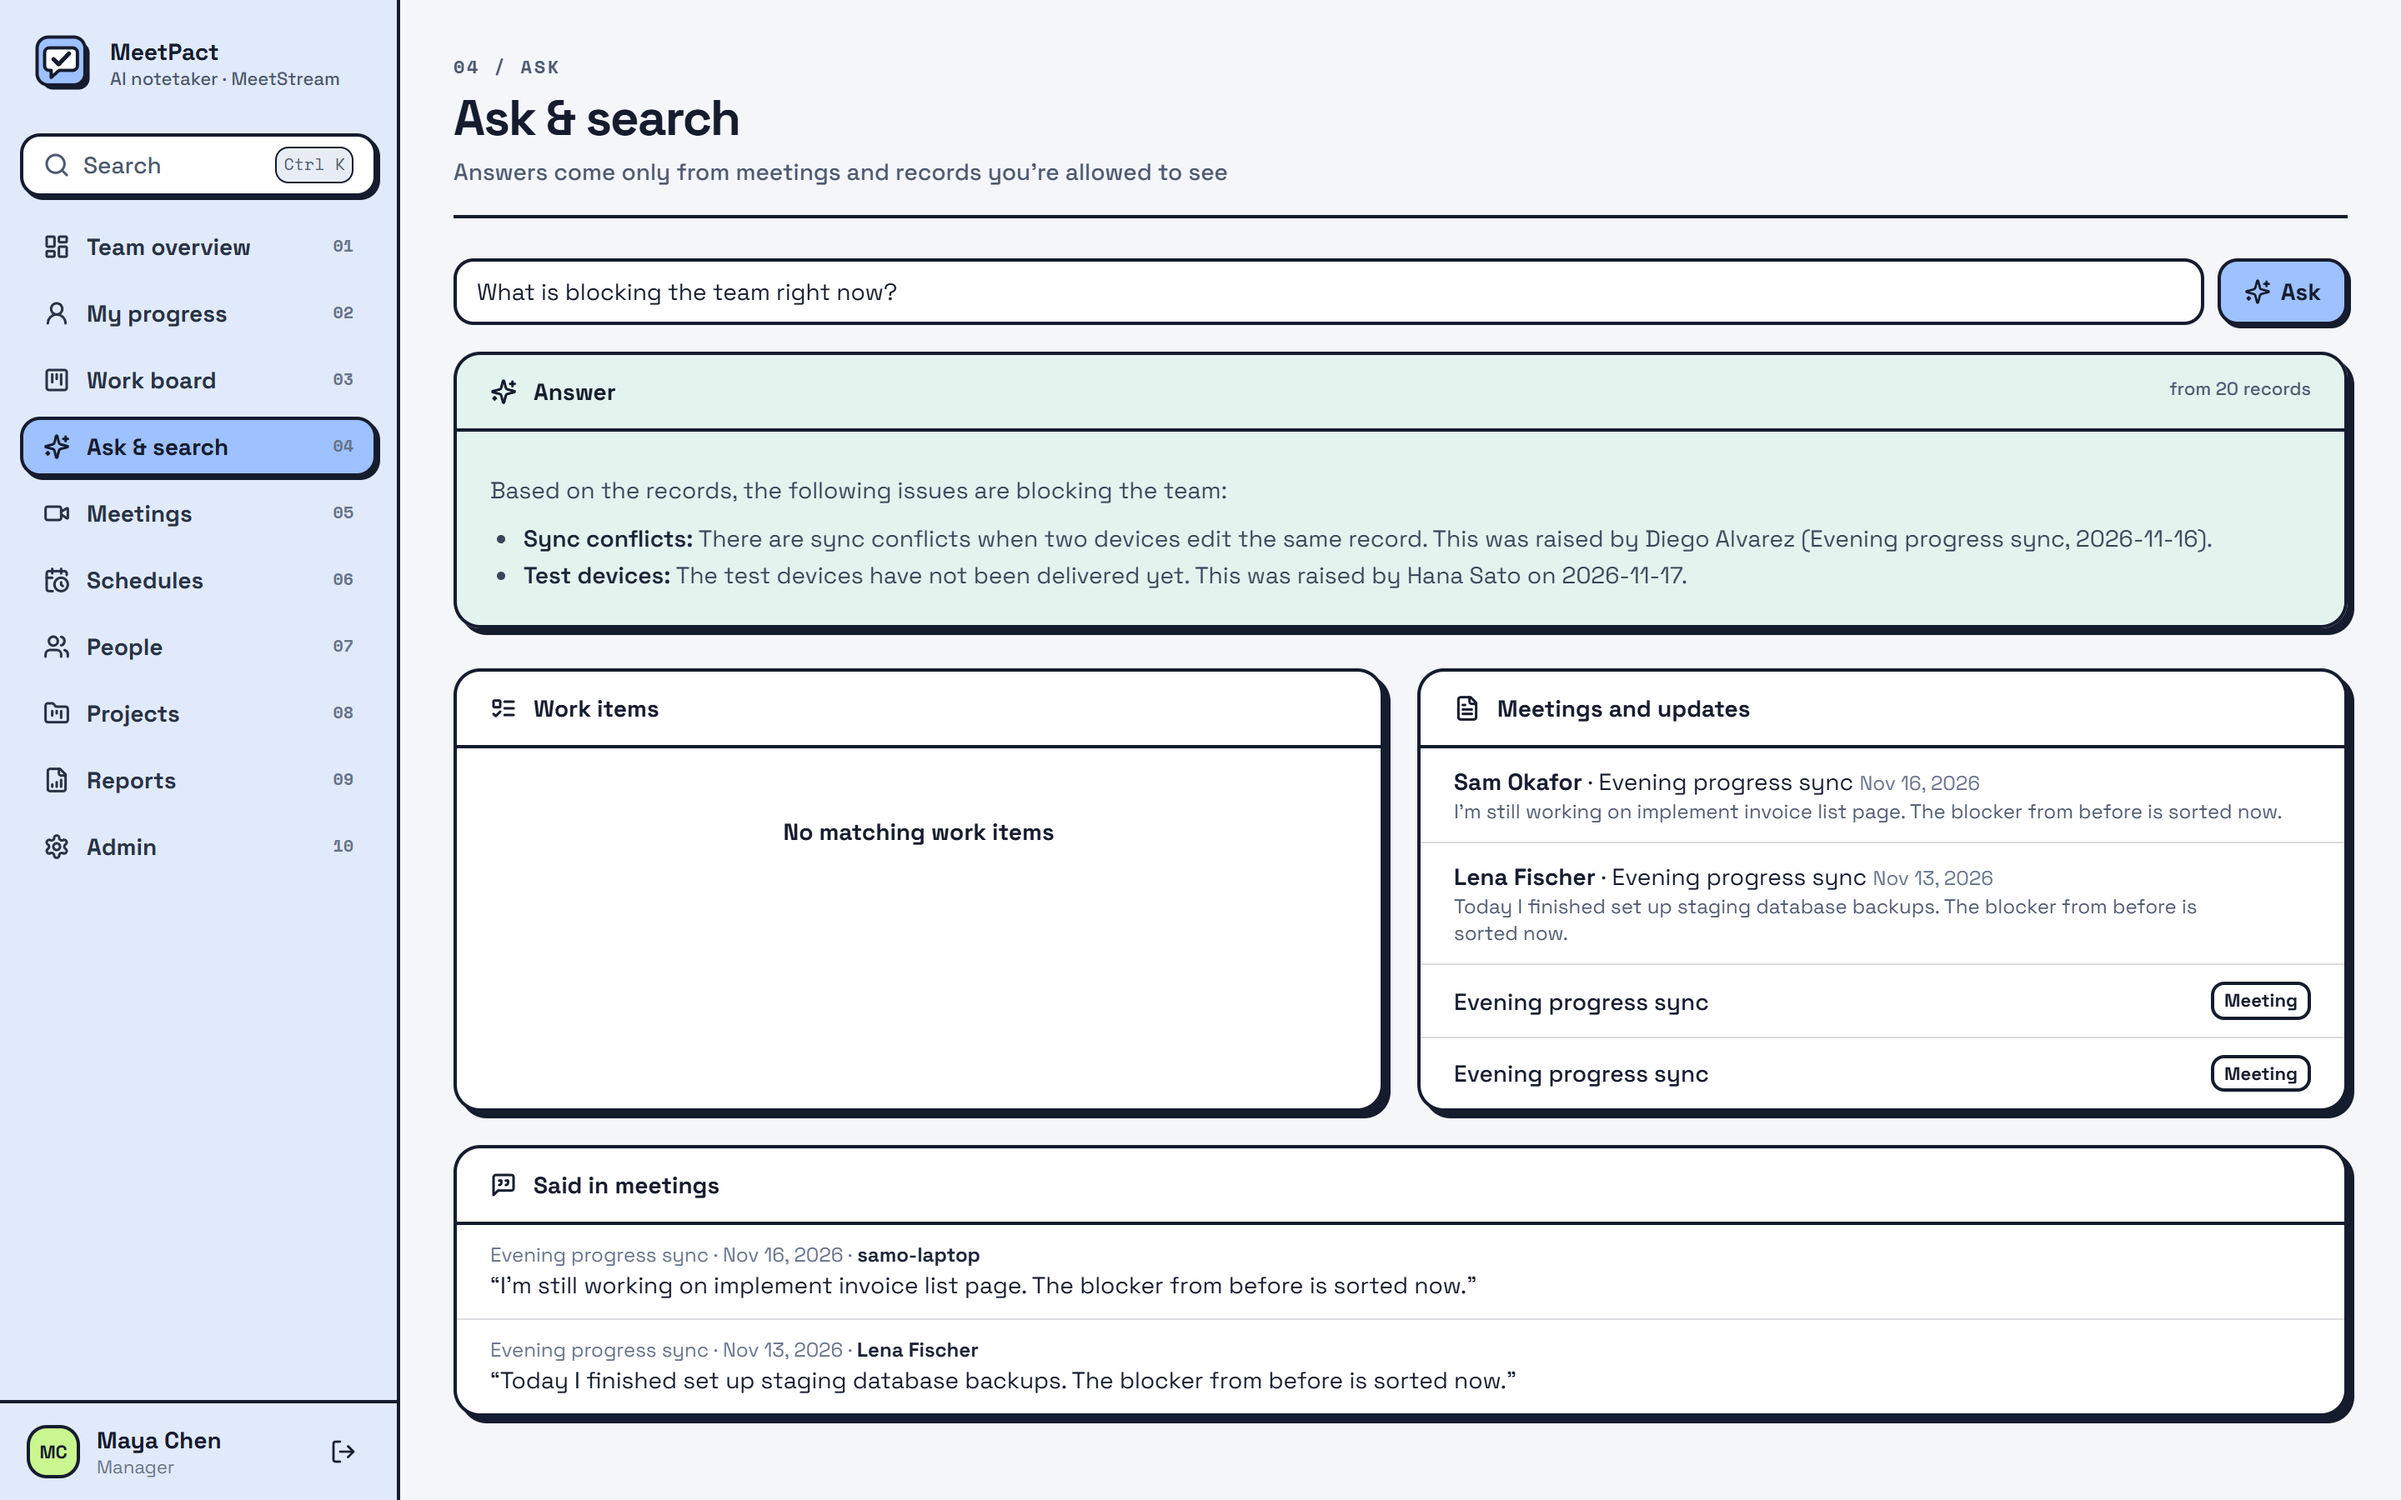
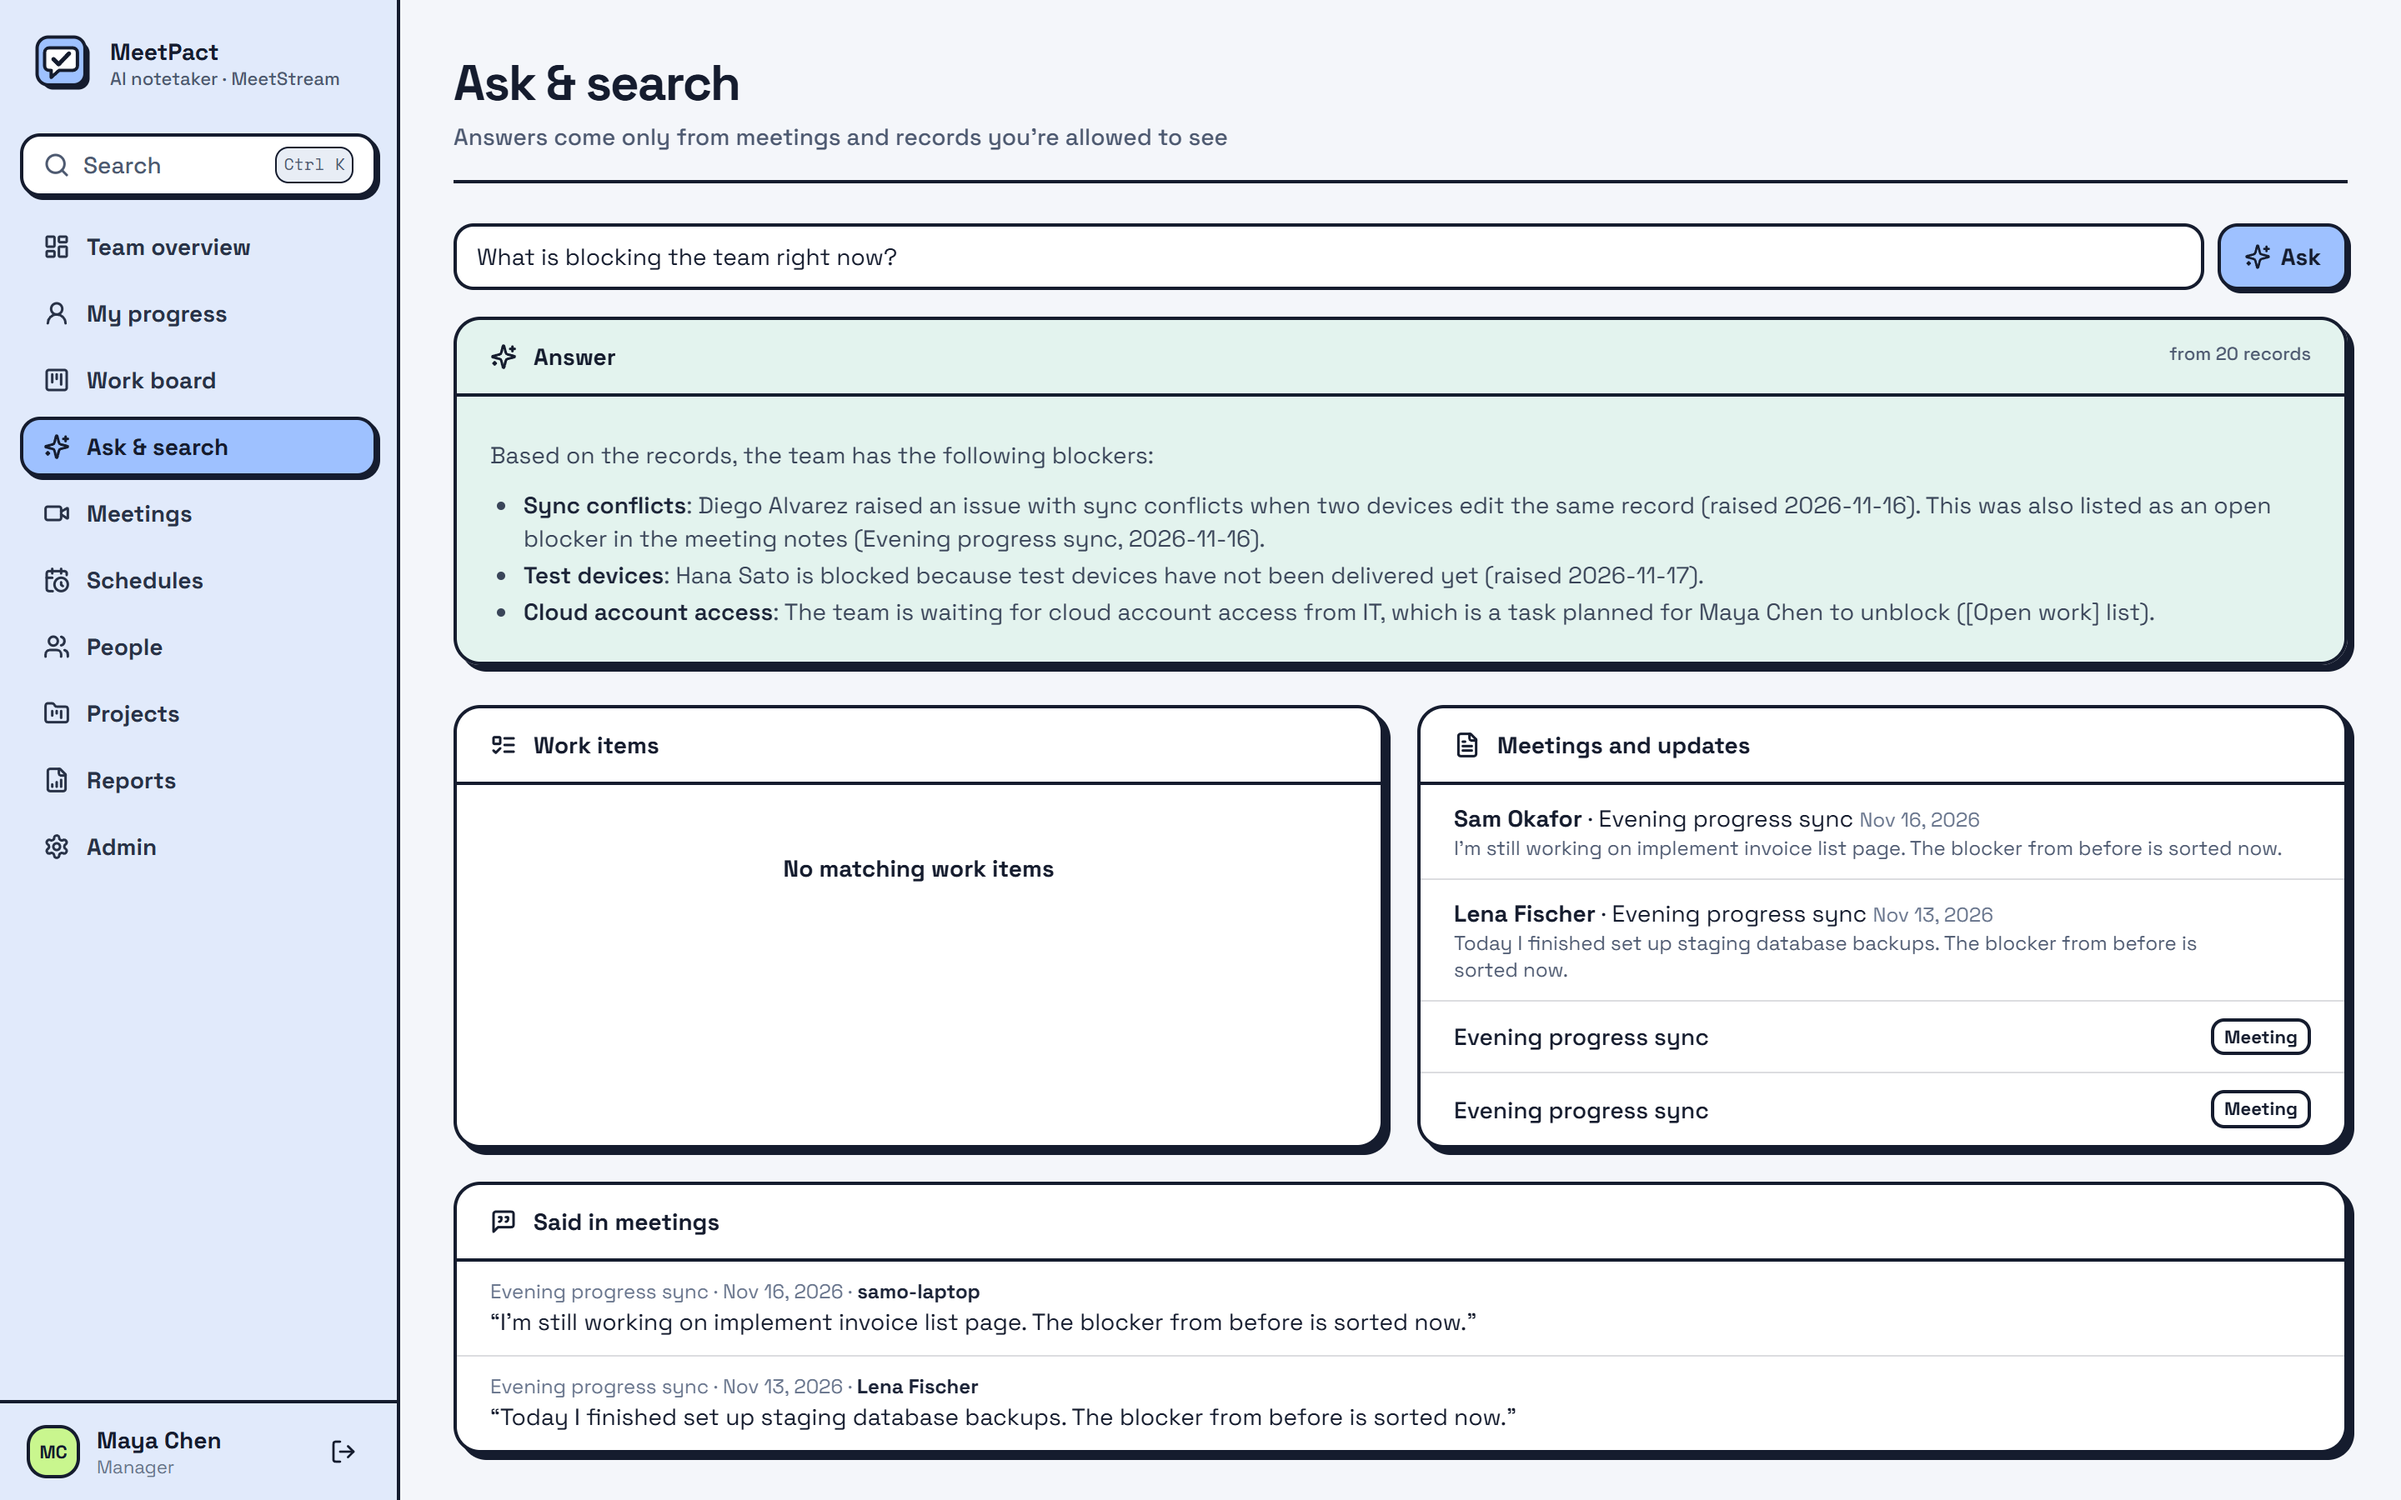
Remove section numbers from the menu and page headers

Changed region(s): [[0.1875, 0.0311, 1.0, 0.9956]]

diff --git a/frontend/src/components/ui.jsx b/frontend/src/components/ui.jsx
@@ -1,6 +1,5 @@
 import { useEffect, useState, useCallback } from 'react'
 import { X, Loader2, AlertTriangle } from 'lucide-react'
-import { useLocation } from 'react-router-dom'
 
 export function cx(...c) { return c.filter(Boolean).join(' ') }
 
@@ -199,23 +198,10 @@ export function Tabs({ tabs, value, onChange }) {
   )
 }
 
-// Swiss-grid section index shown above each page title ("03 / Work").
-export const SECTIONS = ['', 'me', 'board', 'ask', 'meetings', 'schedules', 'people', 'projects', 'reports', 'admin']
-const SECTION_NAMES = { '': 'Overview', me: 'Progress', board: 'Work', ask: 'Ask', meetings: 'Meetings', schedules: 'Schedules',
-  people: 'People', projects: 'Projects', reports: 'Reports', admin: 'Admin' }
-
-export function sectionIndex(pathname) {
-  const key = (pathname || '/').split('/')[1] || ''
-  const i = SECTIONS.indexOf(key)
-  return i < 0 ? null : { num: String(i + 1).padStart(2, '0'), name: SECTION_NAMES[key] }
-}
-
 export function PageHeader({ title, subtitle, actions }) {
-  const section = sectionIndex(useLocation().pathname)
   return (
     <div className="mb-6 flex flex-wrap items-end justify-between gap-3 border-b-2 border-ink-950 pb-4">
       <div className="min-w-0">
-        {section && <p className="mb-1 font-mono text-[11px] font-bold uppercase tracking-[0.12em] text-ink-600">{section.num} / {section.name}</p>}
         <h1 className="text-2xl font-bold tracking-[-0.03em] text-ink-950 sm:text-3xl">{title}</h1>
         {subtitle && <p className="mt-1 text-sm font-medium text-ink-600">{subtitle}</p>}
       </div>

diff --git a/frontend/src/components/AppShell.jsx b/frontend/src/components/AppShell.jsx
@@ -7,7 +7,7 @@ import {
 import { api } from '../api'
 import { useUser, useSetUser, isManager } from '../user'
 import CommandMenu from './CommandMenu'
-import { Avatar, cx, sectionIndex } from './ui'
+import { Avatar, cx } from './ui'
 
 function Logo() {
   return (
@@ -72,7 +72,6 @@ export default function AppShell({ children }) {
             className={({ isActive }) => cx('flex items-center gap-2.5 rounded-md border-2 px-3 py-1.5 text-sm font-bold transition-[background-color,box-shadow] duration-150 focus:outline-none focus-visible:outline focus-visible:outline-2 focus-visible:outline-offset-2 focus-visible:outline-brand-500',
               isActive ? 'border-ink-950 bg-accent text-ink-950 shadow-press' : 'border-transparent text-ink-800 hover:border-ink-950 hover:bg-white')}>
             <Icon className="h-4 w-4" strokeWidth={2.25} />{label}
-            <span className="ml-auto font-mono text-[10px] font-bold text-ink-500">{sectionIndex(to)?.num}</span>
           </NavLink>
         ))}
       </nav>
